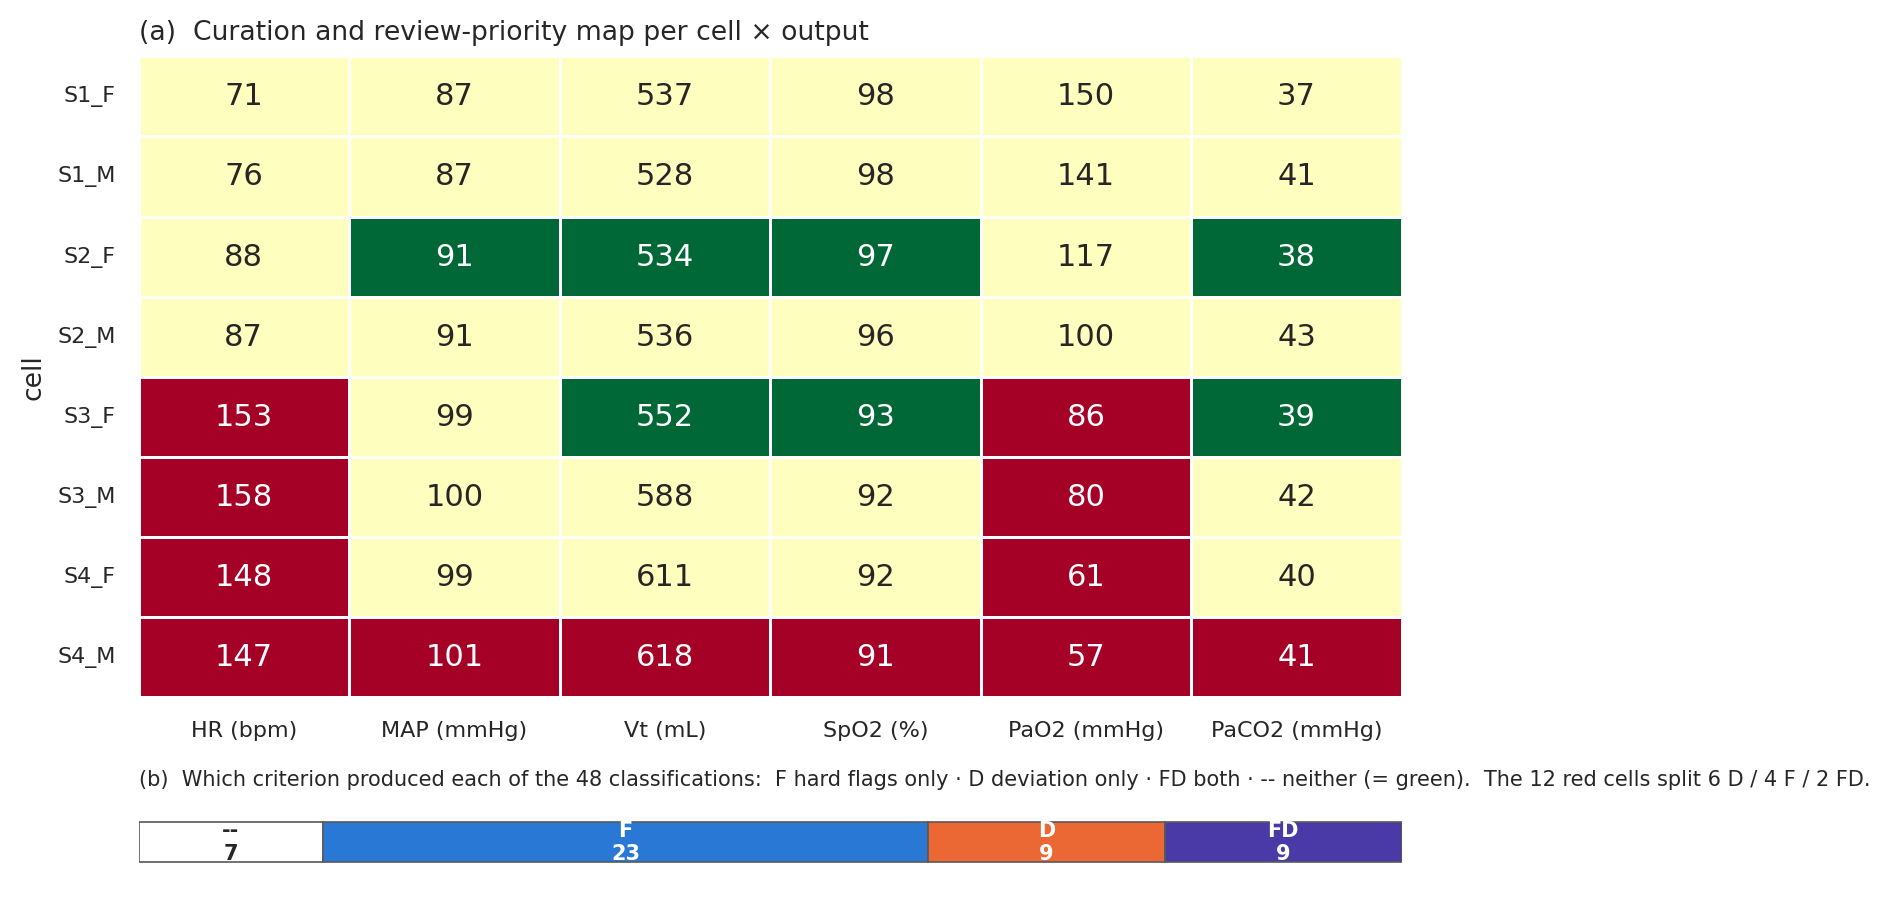
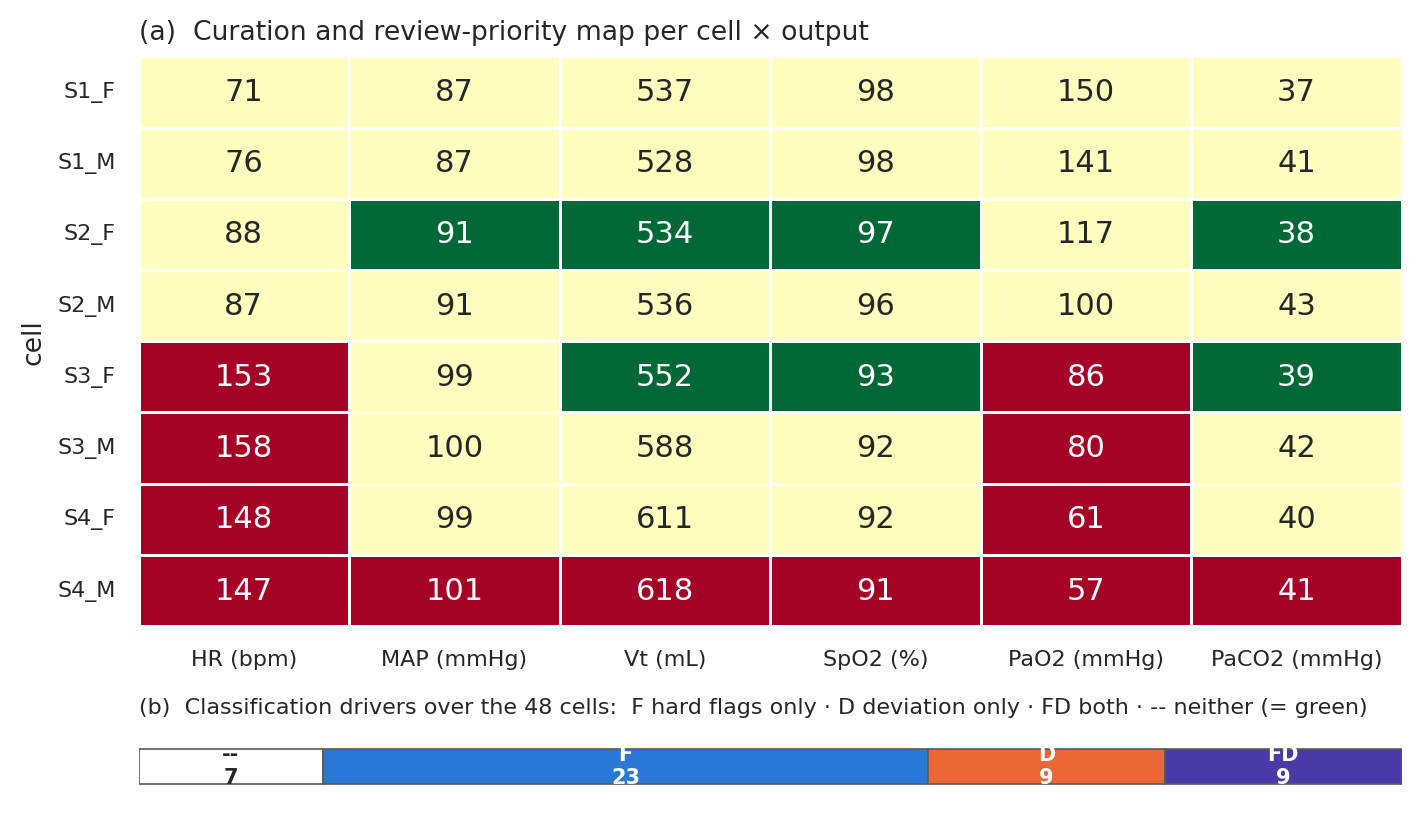
[PAPER] Give Figure 2 the caption its second panel needed, and stop its float colliding with the page folio
Defect, found by looking at the rendered page rather than by any check. e4ec6df
added panel (b) to Figure 2 and never touched the caption. The published figure
therefore had two panels and a caption that described neither, still opened on
"Per-cell reliability traffic-light map", and still carried the old
"the colour alone does not say which" -- a sentence panel (b) exists to answer.
LOT 3 of audit/figure2_reframing_diffs.md had drafted all of this and it was
simply never applied.

Caption now: retitled to name the map a curation and review-priority instrument
and not a reliability verdict; (a) and (b) labelled; (b) described with the four
driver counts, the class-relative reading, the 6 / 4 / 2 split of the red cells
and what that split means -- half are red on distance from a HEALTHY MALE, in
scenarios where compensatory tachycardia and ARDS hypoxemia are what the engine
should produce; the guard that a directionally expected change does not validate
its magnitude; and a pointer to Supplement §S3.12 for the full decomposition.

THE FLOAT THEN OVERFLOWED, AND THAT WAS VISIBLE, NOT THEORETICAL. A float is
figure plus caption. The longer caption pushed it 149.7 pt past the page, and the
rendered page 9 showed caption text running over the folio. Closed in four steps,
each measured:
  149.7 -> 77.5  dropped "7/48 (15 %), 29/48 (60 %), 12/48 (25 %)", which is
                 arithmetic on the three counts stated in the same sentence;
   77.5 -> 53.4  (the same rebuild)
[…]

diff --git a/preprint_npj/paper.tex b/preprint_npj/paper.tex
@@ -223,7 +223,7 @@ S4\_F & 160 & 0 & 0 & 46 & 74  & 60 \\
 \begin{figure}[!htbp]
 \centering
 \includegraphics[width=0.95\textwidth]{figures/fig01_traffic_light.pdf}
-\caption{\textbf{Cell colour encodes a combined flag-and-baseline-deviation class, not the physiological value it annotates.} Each cell is annotated with a clean-run mean, but its colour is a separate verdict: the flag rate combined with the deviation from the healthy-male baseline. A clinically unremarkable number can therefore sit on a yellow or red cell, which is what the map is for, not a defect in it. Per-cell reliability traffic-light map across the 8 (scenario $\times$ sex) cells and the 6 steady-state outputs (HR, mean arterial pressure (MAP), Vt delivered, SpO$_2$, PaO$_2$, PaCO$_2$; output units are given in the column headers). Each cell is annotated with the clean-run mean of that output (SpO$_2$ as a percentage); the cell colour is the separate combined classification --- the diverged/implausible flag rate combined with the deviation of that mean from the healthy-male (S1, M) baseline --- so a clinically normal value can still sit on a yellow or red cell. Cells are coloured \textit{green} when no diverged or implausible flags are raised \textit{and} the clean-run mean lies within $10~\%$ of the (S1, M) baseline; \textit{yellow} when any diverged or implausible flag is raised \textit{or} the mean is $10$--$30~\%$ off baseline; \textit{red} when the mean is more than $30~\%$ off baseline \textit{or} the diverged-plus-implausible rate exceeds $30~\%$. The two ingredients are not interchangeable: a red cell may carry a mean far from the healthy-male baseline for a physiologically correct reason, a high hard-flag rate, or both, and the colour alone does not say which. The $10~\%$ and $30~\%$ bands were preregistered before any data were collected, as clinical-tolerance thresholds: deviations below $10~\%$ fall within typical biological and measurement variation, whereas deviations above $30~\%$ mark a major departure from baseline. The aggregate breakdown across the 48 cell $\times$ output combinations is 7 green / 29 yellow / 12 red, i.e.\ 7/48 (15~\%), 29/48 (60~\%), and 12/48 (25~\%) of the cells respectively; these are shares of the map, not to be confused with the 10~\% and 30~\% baseline-deviation thresholds that define the colours. Cell-label key (Table~\ref{tab:terms}): S1 healthy baseline, S2 mild ARDS, S3 moderate, S4 severe; \_M and \_F denote the male and female reference body.}
+\caption{\textbf{A curation and review-priority map: cell colour encodes a combined flag-and-baseline-deviation class, not the physiological value it annotates, and not a reliability verdict.} Each cell is annotated with a clean-run mean, but its colour is a separate class: the flag rate combined with the deviation from the healthy-male baseline. A clinically unremarkable number can therefore sit on a yellow or red cell, which is what the map is for, not a defect in it. \textbf{(a)} Per-cell curation and review-priority map across the 8 (scenario $\times$ sex) cells and the 6 steady-state outputs (HR, mean arterial pressure (MAP), Vt delivered, SpO$_2$, PaO$_2$, PaCO$_2$; output units are given in the column headers). Annotations are clean-run means, with SpO$_2$ as a percentage. Cells are coloured \textit{green} when no diverged or implausible flags are raised \textit{and} the clean-run mean lies within $10~\%$ of the (S1, M) baseline; \textit{yellow} when any diverged or implausible flag is raised \textit{or} the mean is $10$--$30~\%$ off baseline; \textit{red} when the mean is more than $30~\%$ off baseline \textit{or} the diverged-plus-implausible rate exceeds $30~\%$. The two ingredients are not interchangeable, which is what panel (b) resolves. The $10~\%$ and $30~\%$ bands were preregistered before any data were collected, as clinical-tolerance thresholds: deviations below $10~\%$ fall within typical biological and measurement variation, whereas deviations above $30~\%$ mark a major departure from baseline. The aggregate breakdown across the 48 cell $\times$ output combinations is 7 green / 29 yellow / 12 red. \textbf{(b)} Which criterion produced each of the 48 classifications: 7 \emph{neither} (coinciding with the green set by construction), 23 \emph{hard flags only}, 9 \emph{deviation only}, 9 \emph{both}, each read against the class its cell is in. The 12 red cells split 6 deviation-only, 4 flag-only and 2 both, so half are red because the clean-run mean sits far from a \emph{healthy male} in scenarios where compensatory tachycardia and ARDS hypoxemia are what the engine should produce; a directionally expected change does not validate its magnitude. The per-cell driver matrix, hard-failure rates, exhaustive \texttt{not\_steady\_state} attribution and signed deviations are in Supplement~\S\,\ref{sec:s3-decomposition}. Cell-label key (Table~\ref{tab:terms}): S1 healthy baseline, S2 mild ARDS, S3 moderate, S4 severe; \_M and \_F denote the male and female reference body.}
 \label{fig:traffic_light}
 \end{figure}
 

diff --git a/scripts/make_paper_fig01.py b/scripts/make_paper_fig01.py
@@ -116,8 +116,12 @@ def main() -> None:
     # is 1.80 and fits; shrinking it enough to seat a second 48-cell matrix would
     # have cost panel A its legibility. The driver decomposition therefore ships
     # as a compact strip here and in full in the Supplement.
+    # 4.6 -> 4.2 after the caption grew to describe panel (b): the FLOAT is
+    # figure plus caption, and at 4.6 the pair overflowed by 17.2 pt, which
+    # showed up as caption text colliding with the page folio. Trimming 0.4 in
+    # of figure was preferred to cutting caption content that carries claims.
     fig, (ax, axb) = plt.subplots(
-        2, 1, figsize=(7.2, 4.6), gridspec_kw={"height_ratios": [8, 1]})
+        2, 1, figsize=(7.2, 4.2), gridspec_kw={"height_ratios": [8, 1]})
 
     # --- panel A: the composite curation map, unchanged ------------------
     sns.heatmap(
@@ -159,11 +163,13 @@ def main() -> None:
     for side in ("top", "right", "left", "bottom"):
         axb.spines[side].set_visible(False)
     axb.grid(False)
+    # Kept short on purpose: the caption carries the thresholds, the red-cell
+    # split and the interpretive guard, so repeating them here in 7.5 pt only
+    # made the strip harder to read at print size.
     axb.set_title(
-        "(b)  Which criterion produced each of the 48 classifications:  "
-        "F hard flags only · D deviation only · FD both · -- neither (= green).  "
-        "The 12 red cells split 6 D / 4 F / 2 FD.",
-        loc="left", fontsize=7.5)
+        "(b)  Classification drivers over the 48 cells:  "
+        "F hard flags only · D deviation only · FD both · -- neither (= green)",
+        loc="left", fontsize=8)
 
     fig.tight_layout()
     OUT_DIR.mkdir(parents=True, exist_ok=True)
